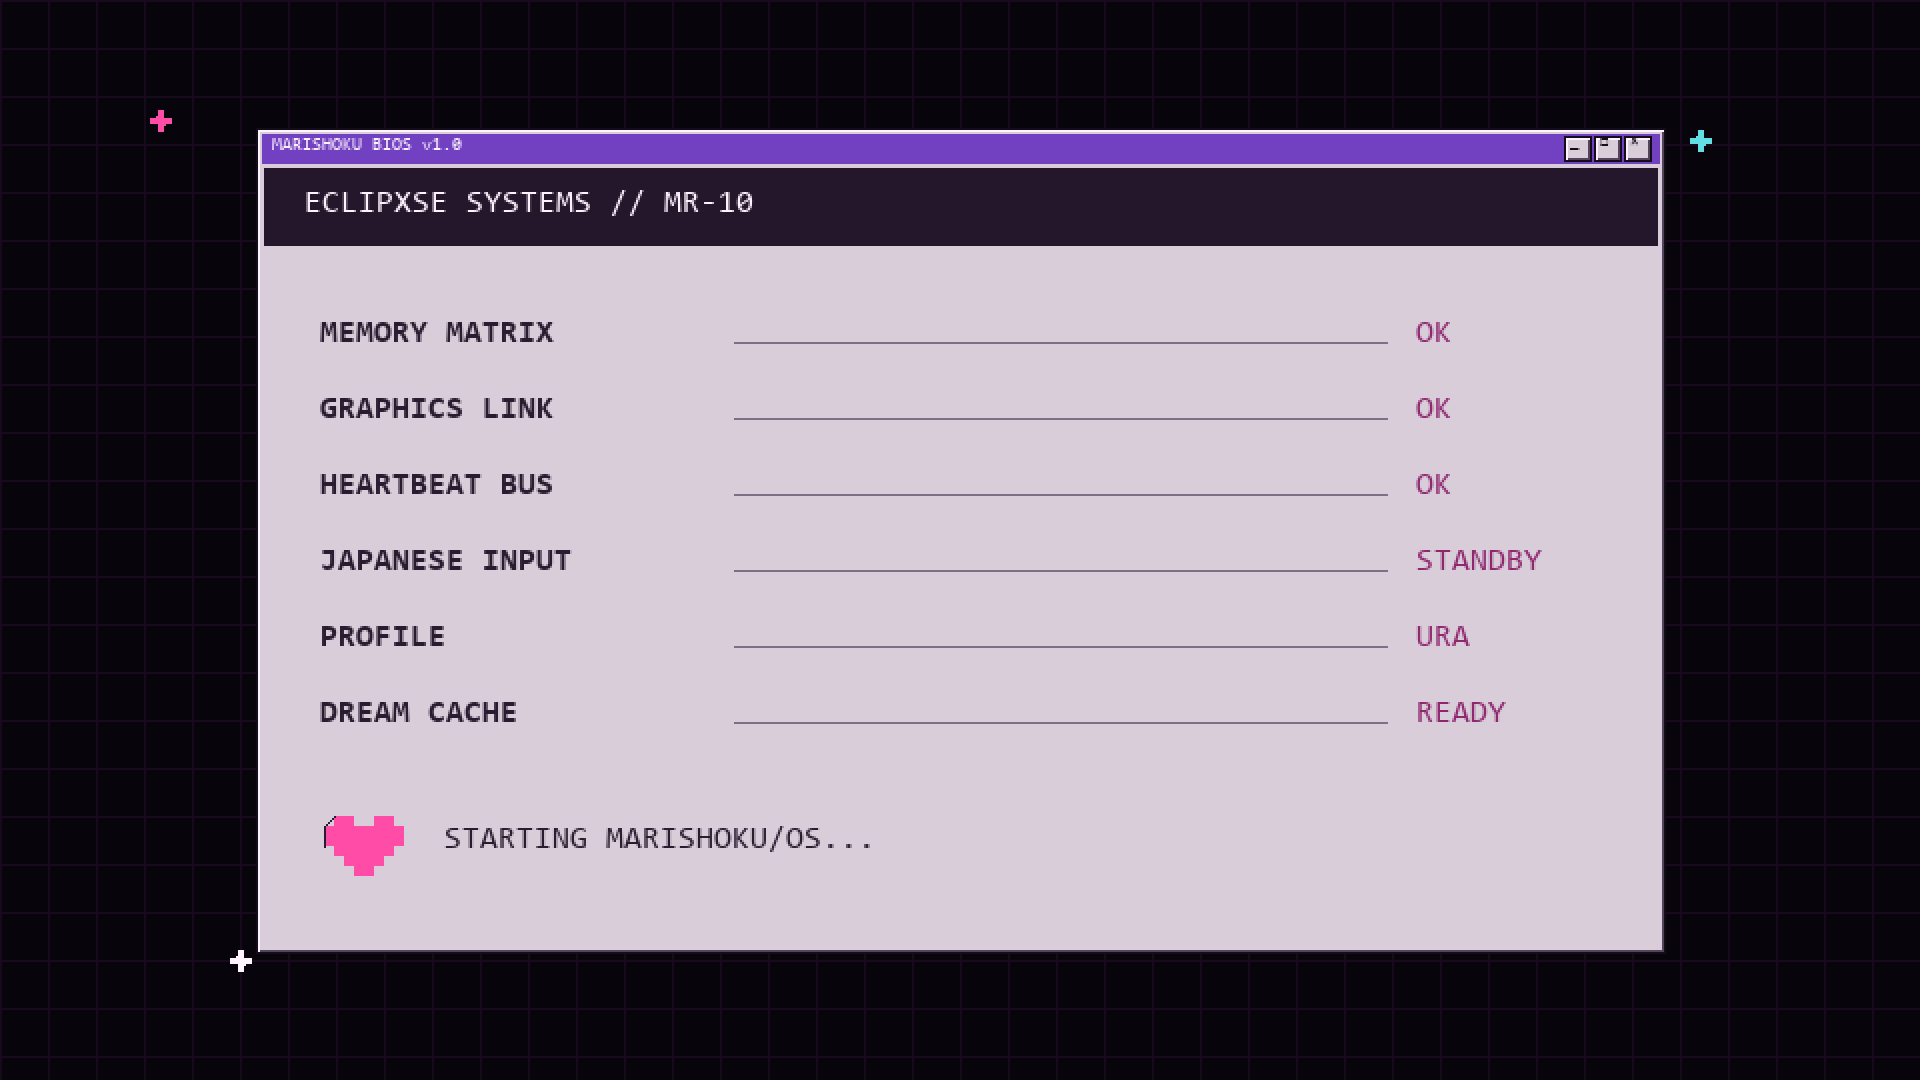
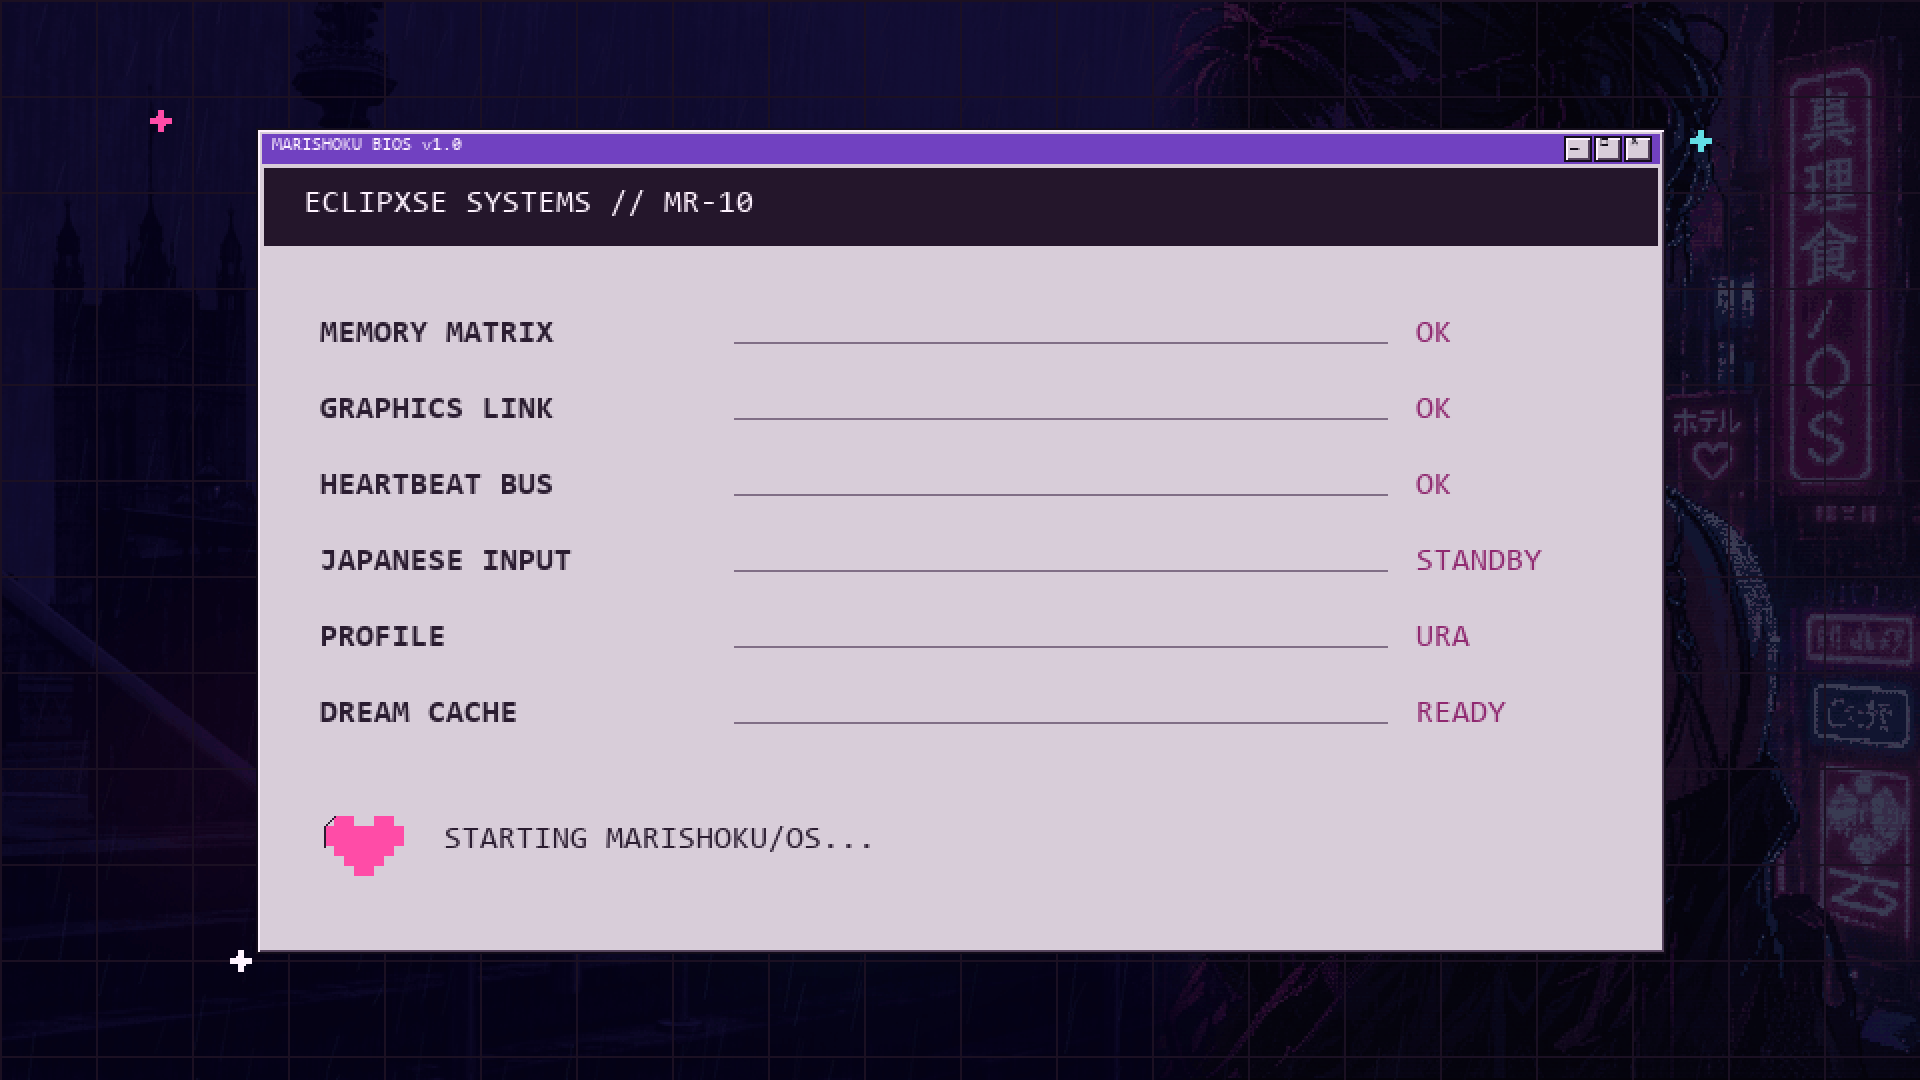
Polish responsive MARISHOKU V1.2 shell

diff --git a/tools/apply-desktop-layout.js b/tools/apply-desktop-layout.js
@@ -1,7 +1,12 @@
 // MARISHOKU/OS Plasma 6 desktop layout. @WALLPAPER_URI@ is replaced at install time.
 
-var oldPanels = panelIds;
-for (var index = 0; index < oldPanels.length; index += 1) {
+// panelIds is live. Copy it first and remove in reverse order; iterating the
+// live collection skipped every second panel and produced duplicate rails.
+var oldPanels = [];
+for (var panelIndex = 0; panelIndex < panelIds.length; panelIndex += 1) {
+    oldPanels.push(panelIds[panelIndex]);
+}
+for (var index = oldPanels.length - 1; index >= 0; index -= 1) {
     var oldPanel = panelById(oldPanels[index]);
     if (oldPanel) {
         oldPanel.remove();
@@ -12,7 +17,7 @@ var taskbar = new Panel();
 taskbar.location = "bottom";
 taskbar.alignment = "left";
 taskbar.lengthMode = "fill";
-taskbar.height = 58;
+taskbar.height = 54;
 taskbar.hiding = "none";
 
 function addFirstWidget(candidates) {
@@ -42,15 +47,19 @@ if (clock) {
     clock.writeConfig("showDate", false);
     clock.writeConfig("showSeconds", false);
     clock.writeConfig("use24hFormat", 2);
+    clock.writeConfig("autoFontAndSize", false);
+    clock.writeConfig("fontFamily", "Terminus");
+    clock.writeConfig("fontSize", 14);
+    clock.writeConfig("boldText", true);
 }
 
 var toolRail = new Panel();
 toolRail.location = "left";
 toolRail.alignment = "left";
 toolRail.lengthMode = "custom";
-toolRail.minimumLength = 522;
-toolRail.maximumLength = 522;
-toolRail.height = 56;
+toolRail.minimumLength = 500;
+toolRail.maximumLength = 500;
+toolRail.height = 52;
 toolRail.hiding = "none";
 toolRail.addWidget("org.marishoku.toolrail");
 

diff --git a/packages/plasma/applets/org.marishoku.status/contents/ui/main.qml b/packages/plasma/applets/org.marishoku.status/contents/ui/main.qml
@@ -7,16 +7,16 @@ PlasmoidItem {
     compactRepresentation: fullRepresentation
 
     fullRepresentation: Item {
-        implicitWidth: 202
-        implicitHeight: 54
+        implicitWidth: 164
+        implicitHeight: 48
 
         Row {
             anchors.centerIn: parent
-            spacing: 9
+            spacing: 7
 
             Rectangle {
-                width: 9
-                height: 9
+                width: 8
+                height: 8
                 anchors.verticalCenter: parent.verticalCenter
                 color: "#D63BAC"
                 border.color: "#15101F"
@@ -25,20 +25,20 @@ PlasmoidItem {
 
             Column {
                 anchors.verticalCenter: parent.verticalCenter
-                spacing: 1
+                spacing: 0
                 Text {
                     text: "MARISHOKU/OS"
                     color: "#FFF3FF"
                     font.family: "Terminus"
-                    font.pixelSize: 14
+                    font.pixelSize: 12
                     font.bold: true
                     renderType: Text.NativeRendering
                 }
                 Text {
-                    text: "裏 // URA  ·  MR-10"
+                    text: "裏 / URA · MR-10"
                     color: "#62DDE4"
                     font.family: "Terminus"
-                    font.pixelSize: 9
+                    font.pixelSize: 8
                     font.bold: true
                     renderType: Text.NativeRendering
                 }

diff --git a/tools/build-v1-assets.py b/tools/build-v1-assets.py
@@ -208,9 +208,19 @@ def ura(with_message: bool = False) -> Image.Image:
 
 
 def boot() -> Image.Image:
-    im = Image.new("RGB", LOW, "#07040C")
+    if URA_MASTER.is_file():
+        master = Image.open(URA_MASTER).convert("RGB").resize(LOW, Image.Resampling.NEAREST)
+        veil = Image.new("RGB", LOW, "#08040E")
+        im = Image.blend(master, veil, 0.58)
+    else:
+        im = Image.new("RGB", LOW, "#07040C")
     d = ImageDraw.Draw(im)
-    grid(d, "#160A1C", 24)
+    # A sparse diagnostic grid and scanline pass keep the approved background
+    # legible while making the boot boundary read as a CRT/faux-BIOS surface.
+    for x in range(0, LOW[0], 48):
+        d.line((x, 0, x, LOW[1]), fill="#1B1022")
+    for y in range(0, LOW[1], 48):
+        d.line((0, y, LOW[0], y), fill="#1B1022")
     for x, y, c in ((80, 60, PINK), (850, 70, CYAN), (740, 460, VIOLET), (120, 480, WHITE)):
         pixel_star(d, x, y, c, 5)
     content = window(d, (128, 64, 832, 476), "MARISHOKU BIOS v1.0", VIOLET)

diff --git a/packages/system-apps/marishoku_center.py b/packages/system-apps/marishoku_center.py
@@ -145,6 +145,7 @@ class WelcomeDialog(QDialog):
         self.setObjectName("welcome")
         self.setWindowTitle("MARISHOKU/OS システム")
         self.setFixedSize(540, 280)
+        self.setWindowFlag(Qt.WindowType.WindowStaysOnTopHint, True)
         self.setStyleSheet(APP_STYLE)
 
         outer = QVBoxLayout(self)

diff --git a/README.md b/README.md
@@ -13,6 +13,7 @@ applications, profiles, utilities, Japanese input, and installer—in one square
 ## V1 direction
 
 - Windows 9x-style bevels and 26 px active titlebars
+- duplicate-safe single tool rail and responsive 1280/1920 taskbar geometry
 - handheld Japanese messaging UI
 - cyber-kawaii color with soft-goth contrast
 - intentional CRT/LCD texture on transitional surfaces only
@@ -33,12 +34,15 @@ applications, profiles, utilities, Japanese input, and installer—in one square
 - curated high-detail URA master plus deterministic OMOTE, recovery, cursor,
   boot-control, and sound assets
 - reversible GRUB and Plymouth faux-BIOS sequence
+- approved rainy-city master behind the CRT BIOS diagnostics instead of a flat
+  placeholder background
 - custom SDDM sign-in and Plasma splash; lock screen uses the selected profile
   wallpaper while retaining Plasma's audited authentication component
 - atomic `marishoku-profile omote|ura` switcher
 - Control Center, first-run Welcome, read-only system summary, safe Storage Care,
   and Japanese input guide
 - Fcitx 5 + Mozc defaults while keeping the normal US keyboard as default
+- optional Japanese KDE localisation through Debian's maintained desktop task
 - Debian package builder and Debian live-build configuration
 - Calamares installer branding based on Debian's maintained installer settings
 - VirtualBox, QEMU/SPICE, firmware, UEFI, and Secure Boot build support

diff --git a/docs/BRAND.md b/docs/BRAND.md
@@ -42,7 +42,8 @@ not over long passages of text.
 - One-pixel ink outline around interactive objects.
 - Two-stage bevel: light on top/left, shadow on bottom/right.
 - Title bars are 26 px at 100% scale and must pixel-snap.
-- Default desktop panel is 64 px at 100% scale to match the approved concept.
+- Default desktop panel is 54 px at 100% scale, with compact responsive status
+  geometry for both the 1280x800 VM and the 1920x1080 release target.
 - Icons are authored on 16, 24, 32, and 48 px grids.
 - Blur, glass, floating cards, and soft shadows are disabled by default.
 